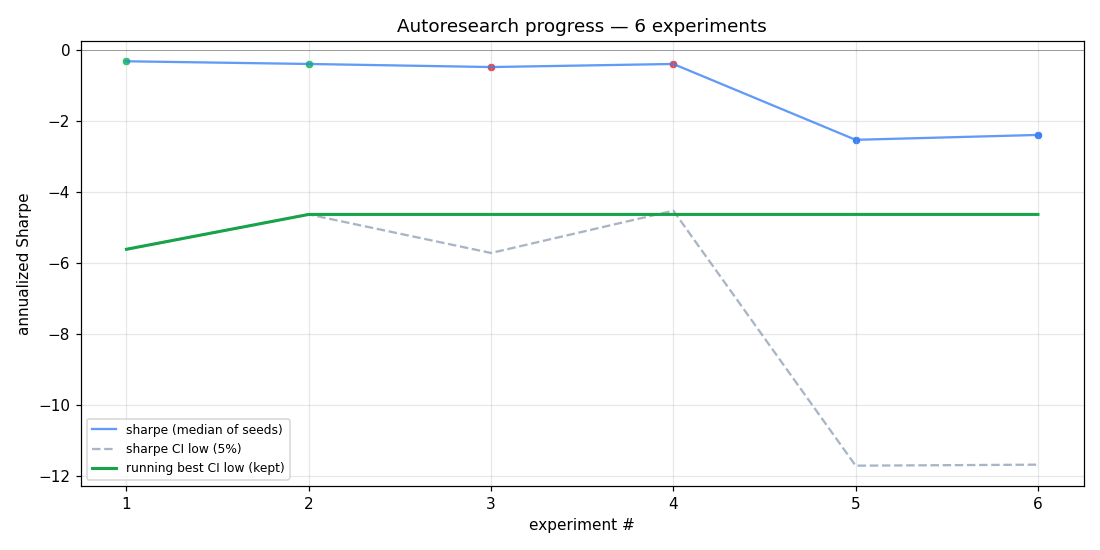
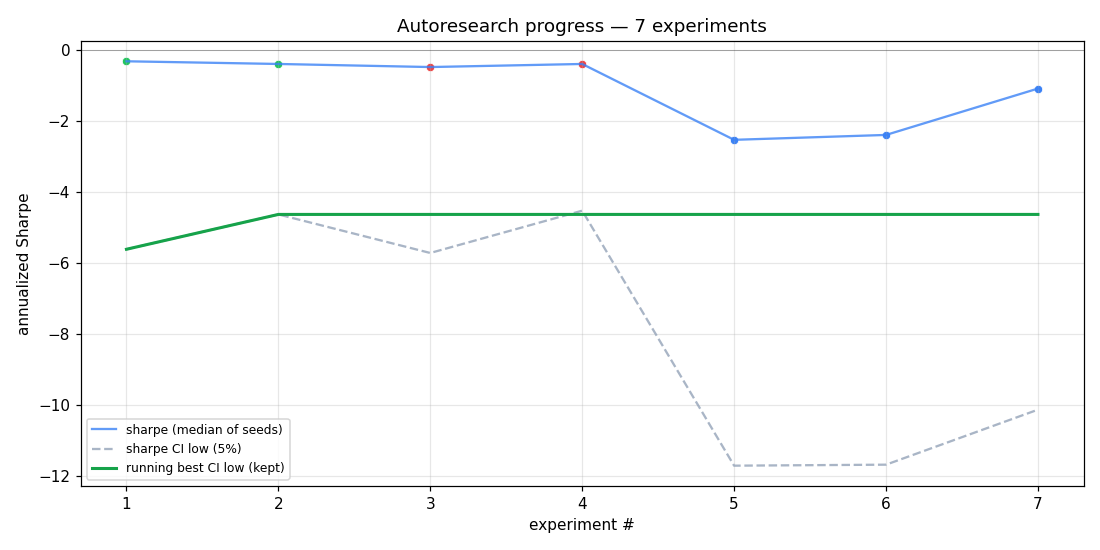
exp5: also drop rv_15 (third short-window feature) — 14→13 features
After exp4 KEPT (median sharpe -2.39→-1.08, variance 6× tighter), the
hypothesis is that short-window features are pure noise on this dataset.
Test by dropping the third one.

diff --git a/experiment.py b/experiment.py
@@ -56,7 +56,7 @@ ALL_FEATURES = [
     "tod_sin", "tod_cos",
 ]
 
-USE_FEATURES = [f for f in ALL_FEATURES if f not in {"signed_log_vol", "vol_z_15"}]   # exp4: drop noisy ones
+USE_FEATURES = [f for f in ALL_FEATURES if f not in {"signed_log_vol", "vol_z_15", "rv_15"}]   # exp5: drop 3rd short-window feature too
 
 
 def _ema(x: np.ndarray, span: int) -> np.ndarray:

diff --git a/README.md b/README.md
@@ -6,8 +6,8 @@ Karpathy-style [autoresearch](https://github.com/karpathy/autoresearch) harness,
 
 <!-- RESULTS_START -->
 
-_Last updated: 2026-04-30 06:39 UTC_  
-_Total experiments: **6**  ·  kept: **2**  ·  latest commit: `1120820`_
+_Last updated: 2026-04-30 06:46 UTC_  
+_Total experiments: **7**  ·  kept: **2**  ·  latest commit: `c3775f2`_
 
 ### Latest experiment
 
@@ -15,14 +15,14 @@ _Total experiments: **6**  ·  kept: **2**  ·  latest commit: `1120820`_
 
 | metric | value |
 |---|---|
-| Sharpe (median over seeds) | **-2.389** |
-| Sharpe — bootstrap CI low (5%) | **-11.672** |
-| Sharpe — bootstrap CI high (95%) | +9.648 |
-| Max drawdown | -0.29% |
-| Net PnL | $-47.49 (-0.095%) |
-| Trades | 29 |
-| Fees / slippage | $29.00 / $5.80 |
-| Wall time | 365.5s |
+| Sharpe (median over seeds) | **-1.084** |
+| Sharpe — bootstrap CI low (5%) | **-10.124** |
+| Sharpe — bootstrap CI high (95%) | +10.970 |
+| Max drawdown | -0.23% |
+| Net PnL | $-21.57 (-0.043%) |
+| Trades | 14 |
+| Fees / slippage | $14.00 / $2.80 |
+| Wall time | 364.3s |
 | Seeds completed | 10 |
 
 ### Progress over all experiments
